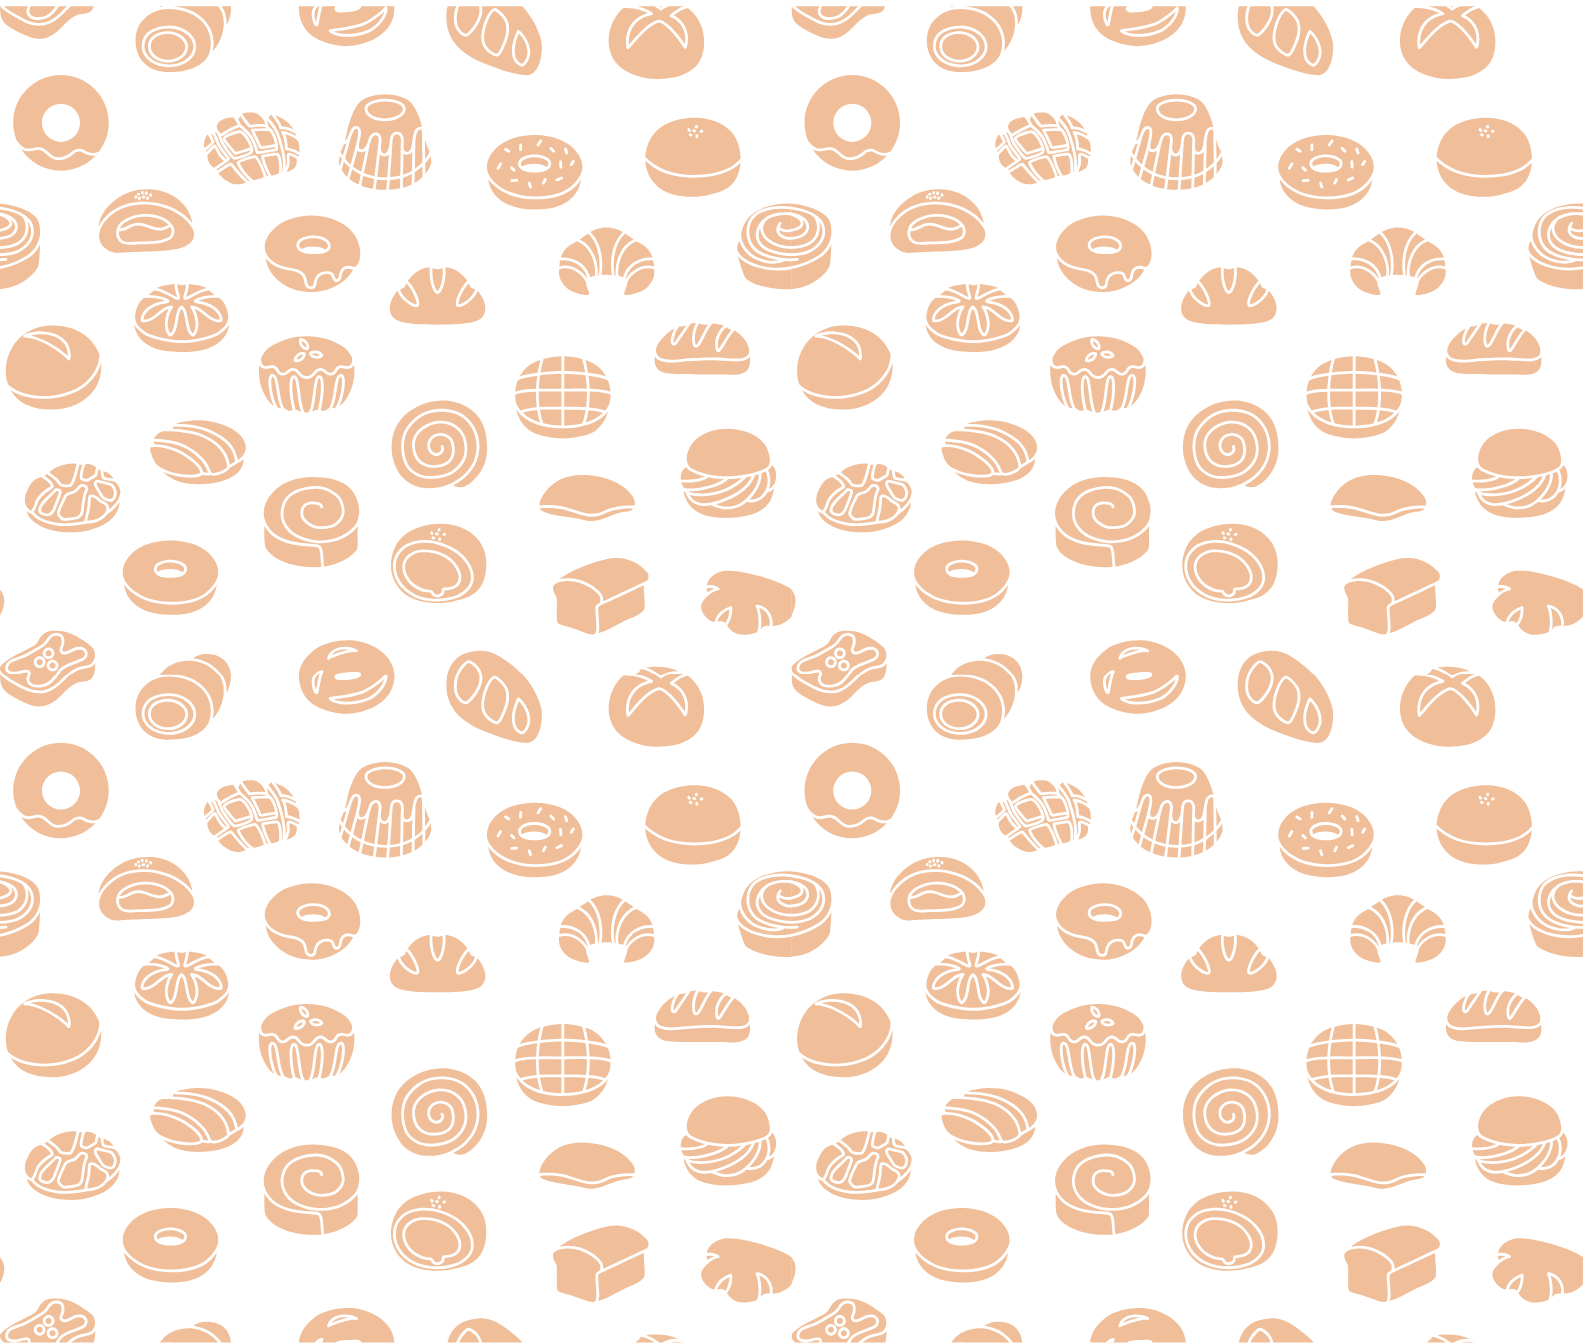
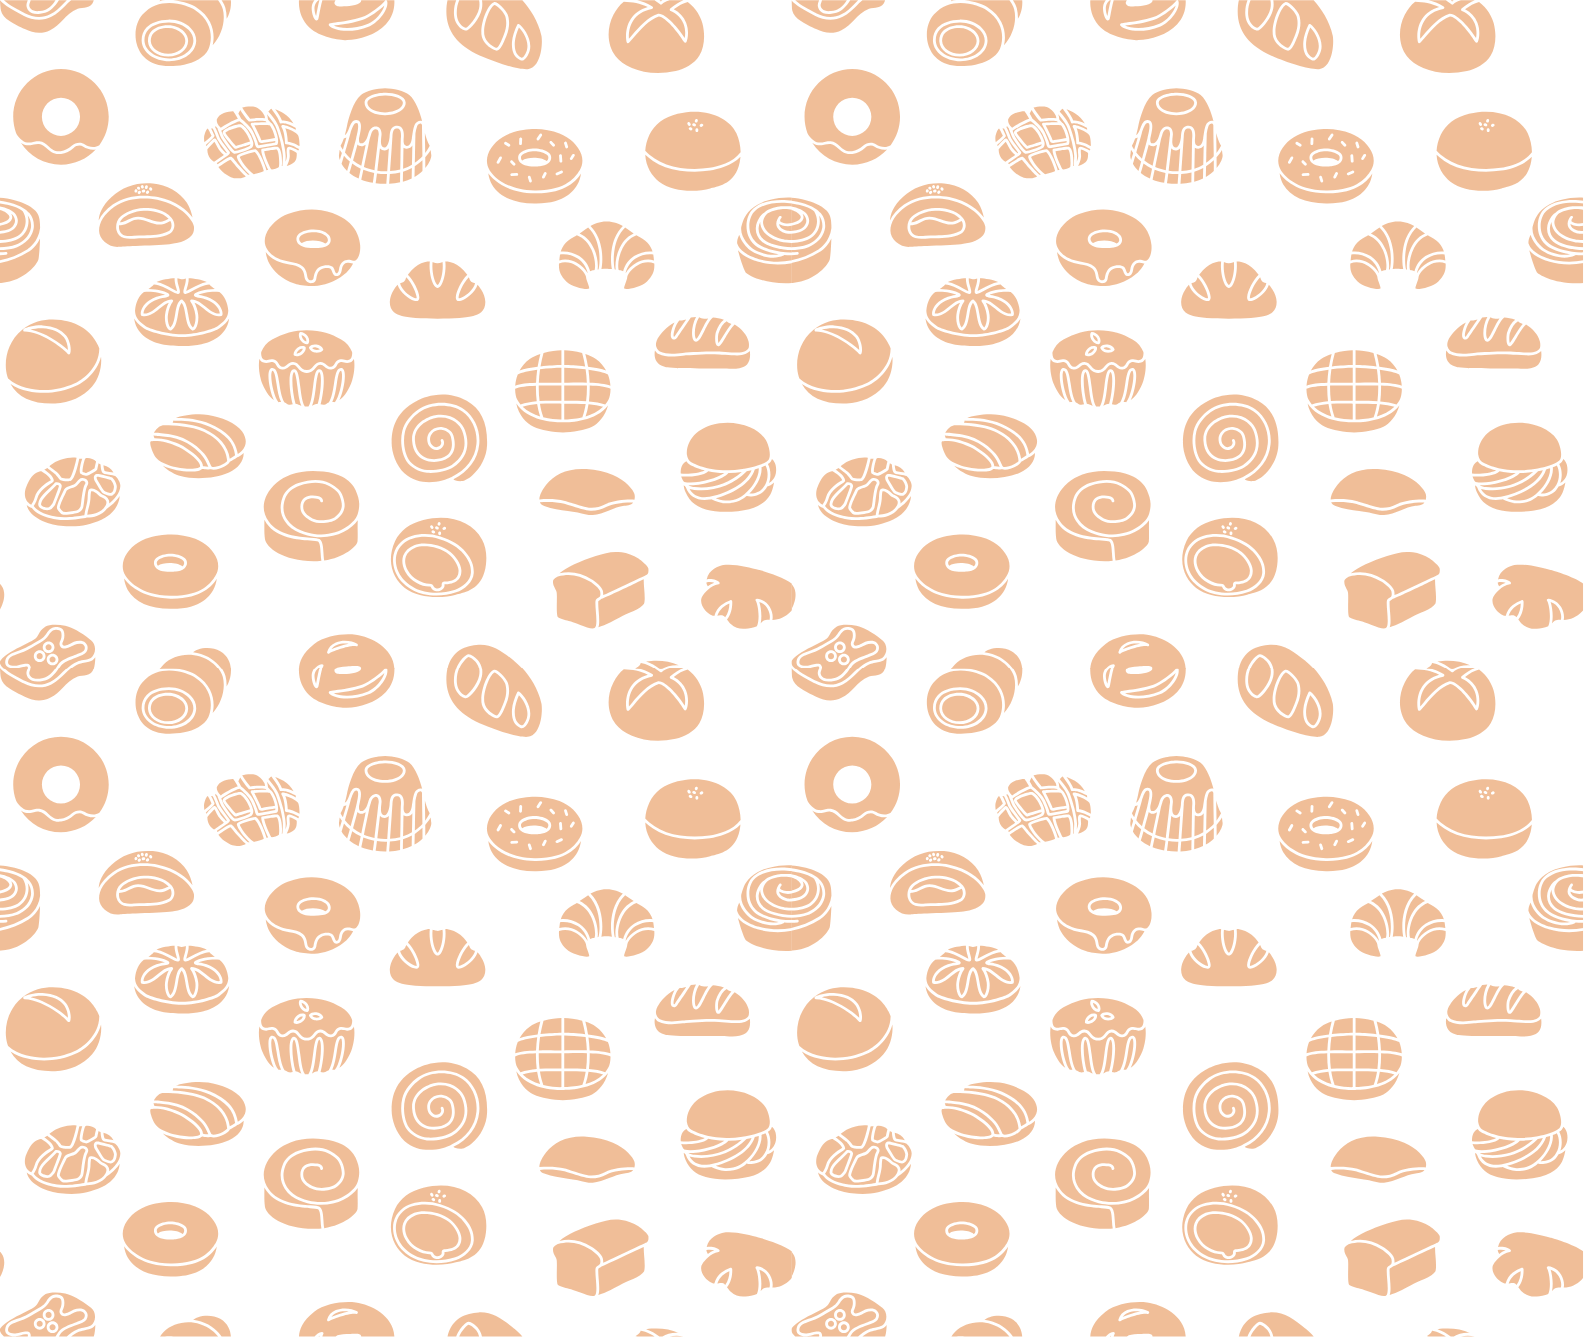
bg fixed

diff --git a/design.css b/design.css
@@ -3,7 +3,7 @@
 body {
     background-image: url(resources/cularts_bg.png);
     background-size: 90%;
-    background-repeat: repeat-x;
+    background-repeat: repeat-x repeat-y;
     font-family: 'Kollektif', sans-serif;
 }
 
